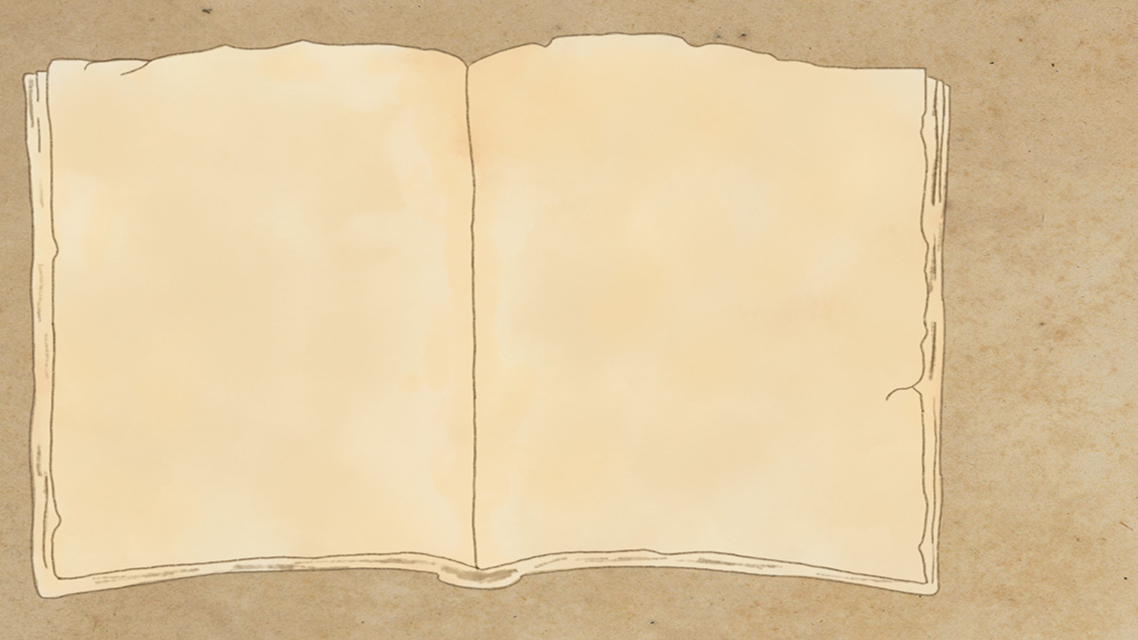
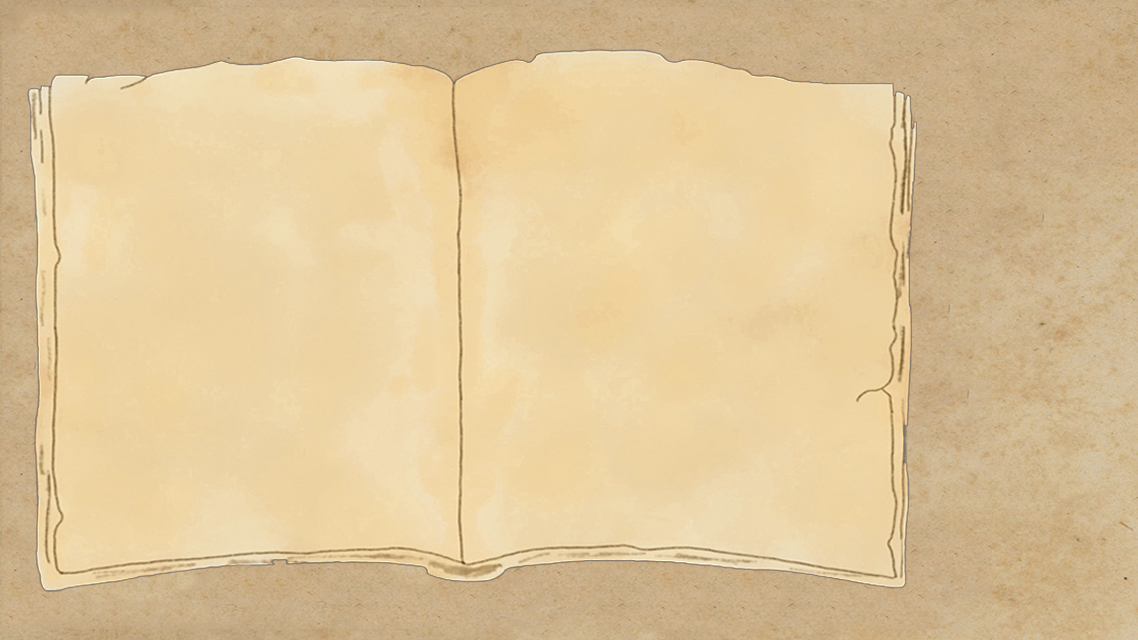
resized home.jpg to fit

Changed region(s): [[0.0, 0.0312, 0.8612, 0.9688]]

diff --git a/Twine/aztec.html b/Twine/aztec.html
@@ -197,7 +197,7 @@ importScripts([
 			}
 		}
 	});
-})();</script><tw-tag name="Breaks" color="blue"></tw-tag><tw-tag name="Change-Title" color="yellow"></tw-tag><tw-tag name="Coding-Problem" color="red"></tw-tag><tw-tag name="Done" color="green"></tw-tag><tw-tag name="New-Passage" color="purple"></tw-tag><tw-tag name="Text-to-be-updated-by-Ashley" color="orange"></tw-tag><tw-passagedata pid="1" name="0 Dakota Test Passage" tags="" position="100,100" size="100,100">&lt;&lt;liveblock&gt;&gt;
+})();</script><tw-tag name="Done" color="green"></tw-tag><tw-tag name="New-Passage" color="purple"></tw-tag><tw-tag name="Text-to-be-updated-by-Ashley" color="orange"></tw-tag><tw-tag name="Breaks" color="blue"></tw-tag><tw-tag name="Change-Title" color="yellow"></tw-tag><tw-tag name="Coding-Problem" color="red"></tw-tag><tw-passagedata pid="1" name="0 Dakota Test Passage" tags="" position="100,100" size="100,100">&lt;&lt;liveblock&gt;&gt;
 
 &lt;&lt;/liveblock&gt;&gt;</tw-passagedata><tw-passagedata pid="2" name="A Friendly Invitation" tags="" position="4200,6375" size="100,100">&lt;&lt;liveblock&gt;&gt;
 Causeway leading into Tenochtitlán, November 8th, 1519

diff --git a/Twine/style.css b/Twine/style.css
@@ -522,10 +522,10 @@ width: 200% !important;
 
 .playerList #info{
   position: absolute;
-  left: 6%;
+  left: 5%;
   width: 34%;
   height: 70%;
-  top: 12%;
+  top: 13%;
   overflow: hidden;
   overflow-y: auto ;
   -ms-overflow-style: none;  
@@ -907,8 +907,8 @@ small font size: 1.7rem
   position: relative;
   width: 32%;
   height: 55%;
-  top: 26.1%;
-  left: 45%;
+  top: 27.8%;
+  left: 43%;
   
 
   display: flex;
